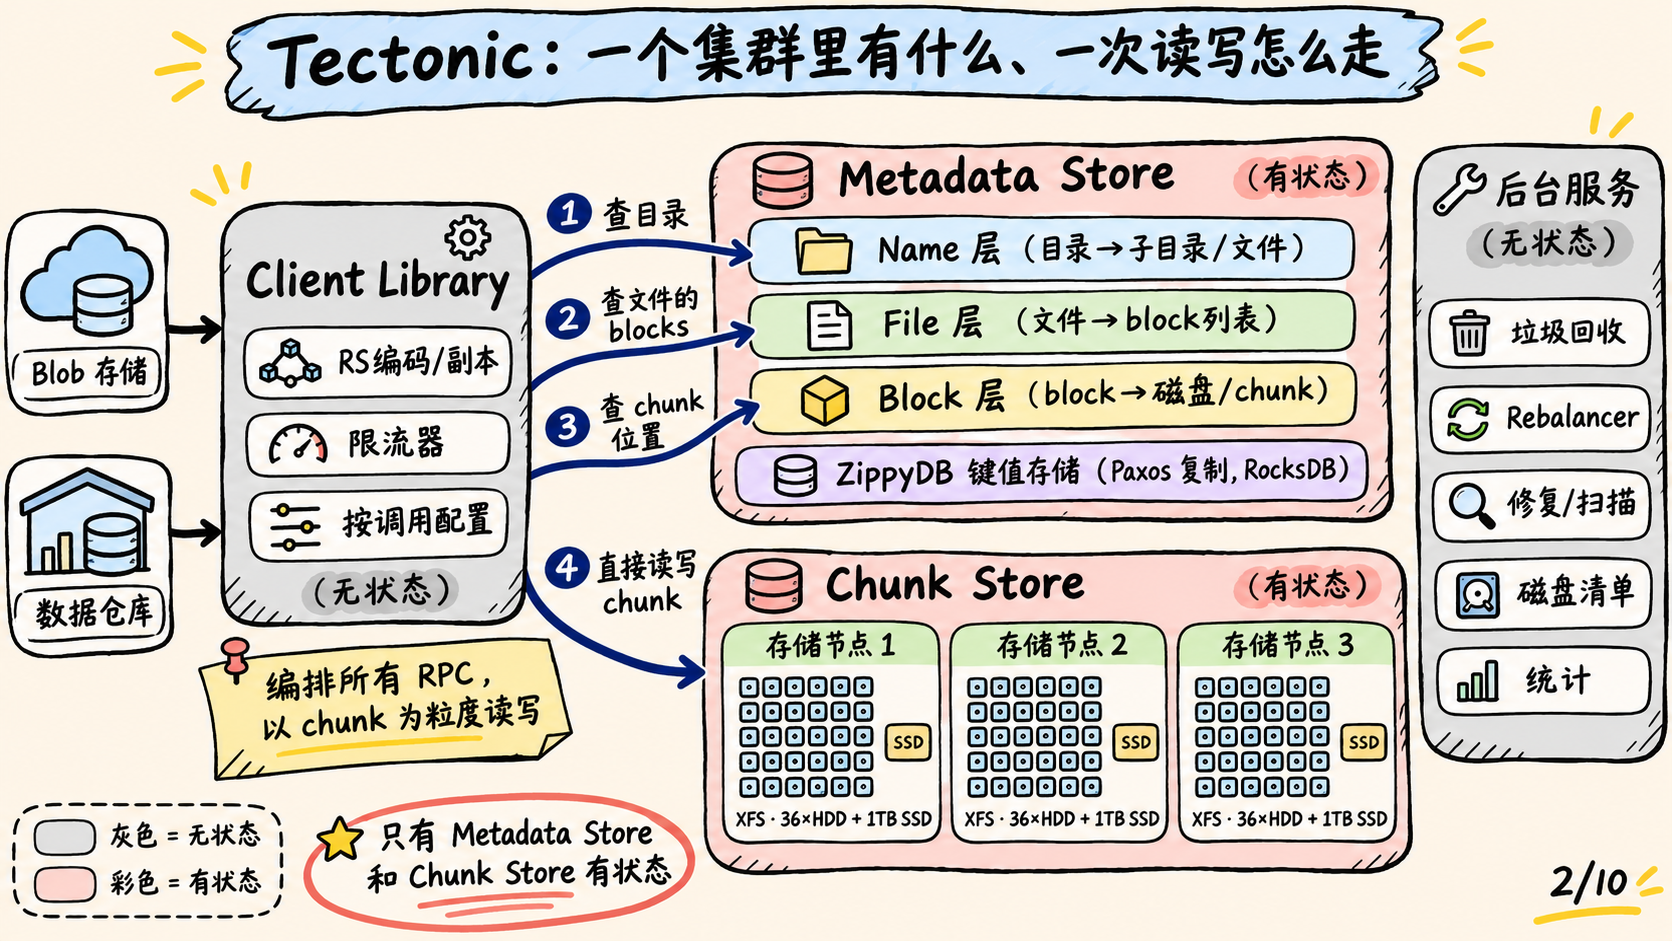
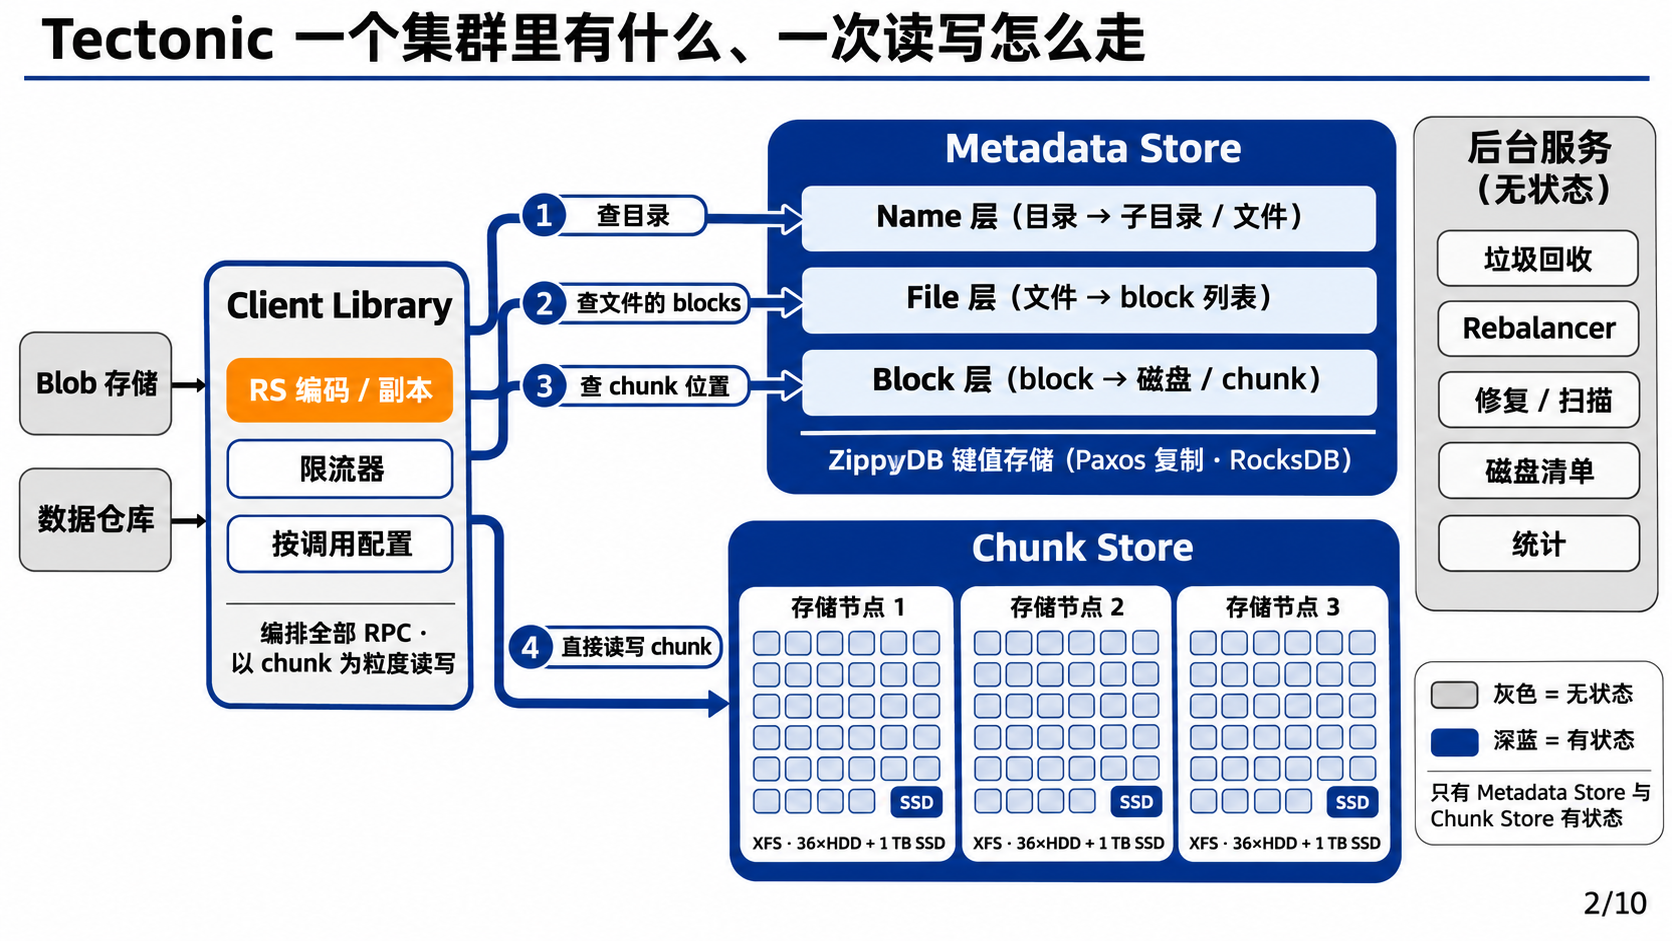
docs(papers): switch Tectonic (FAST 2021) illustrations to paper-figure style
- Regenerate all 10 illustrations in paper-figure style (Chinese, 16:9)
  from rewritten prompts/*.json; 09-results now shows all three Table 3 peaks
- Update style notes and captions in README.md, deep-read.md, generate.sh,
  academic.html and storytelling.html to match the new images
- Drop the redundant Mermaid architecture diagram under figure 1 in
  storytelling.html

diff --git a/filesystem/papers/tectonic-fast2021/storytelling.html b/filesystem/papers/tectonic-fast2021/storytelling.html
@@ -35,9 +35,6 @@ figcaption{color:var(--muted);font-size:.85rem;text-align:center;margin-top:.4re
 <script defer src="https://cdn.jsdelivr.net/npm/katex@0.16.9/dist/katex.min.js" integrity="sha384-XjKyOOlGwcjNTAIQHIpgOno0Hl1YQqzUOEleOLALmuqehneUG+vnGctmUb0ZY0l8" crossorigin="anonymous"></script>
 <script defer src="https://cdn.jsdelivr.net/npm/katex@0.16.9/dist/contrib/auto-render.min.js" integrity="sha384-+VBxd3r6XgURycqtZ117nYw44OOcIax56Z4dCRWbxyPt0Koah1uHoK0o4+/RRE05" crossorigin="anonymous"
   onload="renderMathInElement(document.body,{delimiters:[{left:'$$',right:'$$',display:true},{left:'$',right:'$',display:false}]})"></script>
-<!-- Mermaid -->
-<script src="https://cdn.jsdelivr.net/npm/mermaid@10.9.1/dist/mermaid.min.js" integrity="sha384-WmdflGW9aGfoBdHc4rRyWzYuAjEmDwMdGdiPNacbwfGKxBW/SO6guzuQ76qjnSlr" crossorigin="anonymous"></script>
-<script>mermaid.initialize({startOnLoad:true,theme:'default',securityLevel:'loose'});</script>
 </head>
 <body>
 
@@ -99,18 +96,6 @@ figcaption{color:var(--muted);font-size:.85rem;text-align:center;margin-top:.4re
 <p>先看全貌。Tectonic 一个集群里只有两样东西有状态：存数据的 <strong>Chunk Store</strong> 和存目录树的 <strong>Metadata Store</strong>。剩下的组件全是无状态的，包括所有读写都要经过的 <strong>Client Library</strong>，以及做垃圾回收、修复、搬迁的后台服务。</p>
 
 <figure><img src="01-architecture.png" alt="Tectonic 整体架构图解"><figcaption>图解 1：Tectonic 架构。对应论文 Figure 2：Client Library 依次查 Name、File、Block 三层元数据，再直接读写存储节点。</figcaption></figure>
-
-<pre class="mermaid">
-flowchart LR
-    APP["Tenant<br/>Blob / Warehouse"] --> CL["Client Library<br/>stateless"]
-    CL -->|1 lookup dir| NL["Name layer"]
-    CL -->|2 list blocks| FL["File layer"]
-    CL -->|3 locate chunks| BL["Block layer"]
-    NL --- KV[("ZippyDB<br/>Paxos + RocksDB")]
-    FL --- KV
-    BL --- KV
-    CL -->|4 read or write chunks| CS[("Chunk Store<br/>36 HDD + 1 TB SSD per node")]
-</pre>
 
 <p>回到开头那张照片。上传时，Client Library 在 Name 层找到目录，在 File 层找到文件对应的 block，在 Block 层找到这个 block 的 chunk 放在哪几块盘上，然后直接把数据写给那几台存储节点。存储节点只认识 chunk，不知道什么是 block、什么是文件。这种"笨"恰恰是它能扩展到 EB 级的原因：chunk 的数量随节点数线性增长，没有任何全局结构需要随之膨胀。</p>
 
@@ -206,7 +191,7 @@ $$\text{disk time} = \sum_{\text{IO}} t_{\text{IO}}, \qquad \text{例：1 秒内
 
 <p>这张表的意思是：如果数仓单独一个集群，三天里每一个日峰值它都不够用（0.60、0.54、0.57 都超过 0.51），要多买约 <strong>17%</strong> 的硬盘才扛得住。而 Blob 单独一个集群，峰值也只用到供给的四分之一左右，剩下的全在吃灰。合到一起后，合计需求最高 0.72，远低于 1.00。开头那个"一家厨房不够、隔壁厨房吃灰"的比喻，在这里变成了实打实的数字。</p>
 
-<figure><img src="09-results.png" alt="关键结果图解"><figcaption>图解 5：按磁盘时间归一化的供需对比（对应论文 Table 3 与 Figure 4a/4b）。</figcaption></figure>
+<figure><img src="09-results.png" alt="关键结果图解"><figcaption>图解 5：Table 3 三个日峰值的磁盘时间供需：数仓需求每次都超过它的独立供给 0.51，Blob 大量闲置，合计始终低于 1.00；顶部是 Table 2 的集群规模。</figcaption></figure>
 
 <p>再看延迟。Figure 3b、3c 显示，Tectonic 上 Blob 的读写延迟和 Haystack 基本相当，用了 quorum append 的写延迟明显好于普通追加。Figure 3a 里，在 80% 负载的测试集群上，hedged quorum 写让 72 MB 整块写的 P99 延迟改善了约 20%。元数据方面（Figure 4c），每个分片上限 10K QPS，File 层和 Block 层的分片全部在线以下，Name 层只有约 1% 的分片因为装着特别热的目录碰到上限，靠退避重试消化掉了。</p>
 

diff --git a/filesystem/papers/tectonic-fast2021/academic.html b/filesystem/papers/tectonic-fast2021/academic.html
@@ -100,7 +100,7 @@ flowchart LR
     BG -.-> CS
 </pre>
 
-<figure><img src="01-architecture.png" alt="Tectonic 架构图解"><figcaption>图解：对应论文 Figure 2，标出一次读的四步路径（本仓库生成的示意图，非论文原图）。</figcaption></figure>
+<figure><img src="01-architecture.png" alt="Tectonic 架构图解"><figcaption>图解：对应论文 Figure 2，Client Library 依次查 Name、File、Block 三层元数据，再直连存储节点读写 chunk（①–④）；灰色为无状态组件（本仓库重新绘制的示意图，非论文原图）。</figcaption></figure>
 
 <h3>3.2 创新一：扁平 Chunk Store 与按 block 选择持久性</h3>
 
@@ -265,7 +265,7 @@ $$\max_t \sum_j D_j(t) \;\le\; \sum_j S_j, \qquad \text{overprovision}_{\text{WH
 
 <p>前一式说明整合把逐租户的峰值约束放松为总量约束；后一式由 Table 3 复算出数仓单独部署时所需的超额配置，与论文给出的"约 17%"一致。三天内数仓的每个日峰值都超过其独立供给，而 Blob 峰值需求仅为其供给的约四分之一。Figure 4a、4b 显示了两类流量形态的差异：数仓由超大作业触发规律性的尖峰，Blob 流量平稳可预测。整合的收益正来自这种负载形态的互补，而非来自单一负载的优化。</p>
 
-<figure><img src="09-results.png" alt="关键结果图解"><figcaption>图解：Table 3 的供需对比与 Table 2 的集群规模。</figcaption></figure>
+<figure><img src="09-results.png" alt="关键结果图解"><figcaption>图解：Table 3 三个日峰值的需求（数仓 0.60/0.54/0.57，Blob 0.12/0.14/0.11）与独立供给 0.51/0.49、合并供给 1.00 的对比；顶部为 Table 2 的集群规模。</figcaption></figure>
 
 <h3>4.3 延迟与元数据负载</h3>
 

diff --git a/filesystem/papers/tectonic-fast2021/deep-read.md b/filesystem/papers/tectonic-fast2021/deep-read.md
@@ -8,7 +8,7 @@
 >
 > 精读日期：2026-11-16。文中**数字、表格与机制描述均摘自论文原文**（标注所在章节）；标注"解读"的段落是本文作者的分析与推论，不是论文原话。
 >
-> 图解：文中 10 张 sketchnote 图解由 Codex CLI 内置 imagegen 依据 `prompts/*.json` 生成，放在对应章节；总索引见[附录：图解索引](#附录图解索引)。只看图的快速版见[图解](README.md)。
+> 图解：文中 10 张 paper-figure 风格图解由 Codex CLI 内置 imagegen 依据 `prompts/*.json` 生成，放在对应章节；总索引见[附录：图解索引](#附录图解索引)。只看图的快速版见[图解](README.md)。
 >
 > 相关文档：[工业界生产系统综述中的 Tectonic 小节](../industry-production-systems.md#1-facebooks-tectonic-filesystem-fast-2021)、[元数据扩展性综述](../metadata-scalability.md)、[论文清单](../essential-papers-2000-2026.md)。
 
@@ -36,7 +36,7 @@
 
 ![图解：封面](00-cover.png)
 
-> **图解**：从 Haystack、f4 和数十个 HDFS 集群组成的"存储星座"，合并为一个 EB 级、多租户、一个集群即一个数据中心的 Tectonic。
+> **图解**：从按负载各建一套的 Haystack、f4 和数十个 HDFS 集群，合并为一个 EB 级、多租户、一个集群即一个数据中心的 Tectonic。
 
 **一句话**：Tectonic 是 Facebook 的数据中心级（单集群 EB 级）多租户分布式文件系统。它用"扁平 chunk 存储 + 分层哈希分片的 KV 化元数据 + 胖客户端按请求定制"三件套，把 Blob 存储（Haystack、f4）和数仓（几十个 HDFS 集群）合并进同一套系统，性能与原来的专用系统相当甚至更好，资源利用率更高，运维也更简单。
 
@@ -658,7 +658,7 @@ stateDiagram-v2
 
 ![图解：关键结果](09-results.png)
 
-> **图解**：按磁盘时间归一化：数仓峰值需求 0.57 超过自身供给 0.51，借用 Blob 的闲置（需求 0.12 / 供给 0.49）；不合并需多备约 17% 磁盘。
+> **图解**：按磁盘时间归一化的三个日峰值：数仓需求 0.60 / 0.54 / 0.57 均超过自身供给 0.51，Blob 需求 0.12 / 0.14 / 0.11 远低于供给 0.49，合计 0.72 / 0.68 / 0.68 < 1.00；不合并需多备约 17% 磁盘。
 
 - 数仓负载有大而规律的尖峰（由超大作业触发），Blob 负载平滑、可预测；
 - Blob 请求小，受 IOPS 限制；数仓请求大，受带宽限制。IOPS 和带宽都无法公平地衡量两者的用量，因此用**磁盘时间**（disk time，即磁盘忙的时间比例）作为统一的瓶颈资源度量。例如一块盘 1 秒内做 10 次 IO，每次 50 ms，就忙了 500/1000 ms；
@@ -875,9 +875,10 @@ mindmap
 | 08 | [Blob 写路径](08-blob-writes.png) | 8.3 Blob 存储：一致的 partial-block quorum append（§5.2） |
 | 09 | [关键结果](09-results.png) | 9.2 整合的收益：共享磁盘时间（§6.2，表 3） |
 
-- 风格：sketchnote · 中文 · 16:9；作图规格见 `prompts/*.json`（每页的布局、必须标签、禁止项）。
+- 风格：paper-figure · 中文 · 16:9；作图规格见 `prompts/*.json`（每页的布局、必须标签、禁止项）。
 - 生成：图片由 Codex CLI imagegen 依据 `prompts/*.json` 生成；也可用 `bash generate.sh [页号...]` 走 Giiisp 重新生成（需 `GIIISP_AUTH_TOKEN`）。
-- 已知小瑕疵：02 图 RS(10,4) 下只画了 7 台服务器；06 图图例中 Gold 为绿色、队列中为黄色；08 图"约省 53%"为模型自行换算（3× → 1.4×），非论文原文；09 图右下要点有一处重复。
+- 本组图由早先的 sketchnote 版整体替换为 paper-figure 版，作图规格中的事实沿用并已对照论文复核；09 图改为呈现论文表 3 的全部三个峰值。
+- 已知小瑕疵：05 图左上角多出一个"方法总览"小标签；08 图 blob 索引表中的偏移量为示意值，非论文数据。
 
 ---
 

diff --git a/filesystem/papers/tectonic-fast2021/README.md b/filesystem/papers/tectonic-fast2021/README.md
@@ -4,7 +4,7 @@
 
 - 论文：Satadru Pan et al., *Facebook's Tectonic Filesystem: Efficiency from Exascale*, FAST 2021 — <https://www.usenix.org/conference/fast21/presentation/pan>（[PDF](https://files.usenix.org/s3fs-public/cdn/fast21-pan.pdf)，本地副本：[fast21-pan.pdf](fast21-pan.pdf)）
 - 精读文档：[deep-read.md](deep-read.md)（逐章精读，相关图解已嵌入对应章节）
-- 风格：sketchnote · 中文 · 16:9 · 用于论文阅读笔记
+- 风格：paper-figure · 中文 · 16:9 · 用于论文阅读笔记
 - 页数：10（封面 + 9 页机制 / 结果）
 - 生成方式：`prompts/*.json` 为每页作图规格；图片由 Codex CLI 内置 imagegen 生成。也可用 `bash generate.sh [页号...]` 走 Giiisp 重新生成（需 `GIIISP_AUTH_TOKEN`）。
 
@@ -66,7 +66,7 @@
 
 ![关键结果](09-results.png)
 
-**讲解**：代表性生产集群的规模是 1590 PB 容量、107 亿文件、150 亿 block、4208 个存储节点。衡量 IO 用的是"磁盘时间"，因为它能同时公平地计量 blob 的小 IO（受 IOPS 限制）和数仓的大 IO（受带宽限制）。数仓峰值需求 0.57，超过它自身的供给 0.51；blob 需求只有 0.12，而供给是 0.49。合并后数仓可以借用 blob 闲置的磁盘时间；如果不合并，数仓需要多备约 17% 的磁盘。Blob 的读写延迟与 Haystack 相当。元数据方面，只有约 1% 的 Name 层 shard 碰到每 shard 10K QPS 的上限，靠退避重试化解。
+**讲解**：代表性生产集群的规模是 1590 PB 容量、107 亿文件、150 亿 block、4208 个存储节点。衡量 IO 用的是"磁盘时间"，因为它能同时公平地计量 blob 的小 IO（受 IOPS 限制）和数仓的大 IO（受带宽限制）。三个日峰值里，数仓需求分别是 0.60、0.54、0.57，都超过它自身的供给 0.51；blob 需求只有 0.12、0.14、0.11，而供给是 0.49。合并后的总需求 0.72、0.68、0.68，始终低于总供给 1.00。合并后数仓可以借用 blob 闲置的磁盘时间；如果不合并，数仓需要多备约 17% 的磁盘。Blob 的读写延迟与 Haystack 相当。元数据方面，只有约 1% 的 Name 层 shard 碰到每 shard 10K QPS 的上限，靠退避重试化解。
 
 ## 总结：3 个核心要点
 
